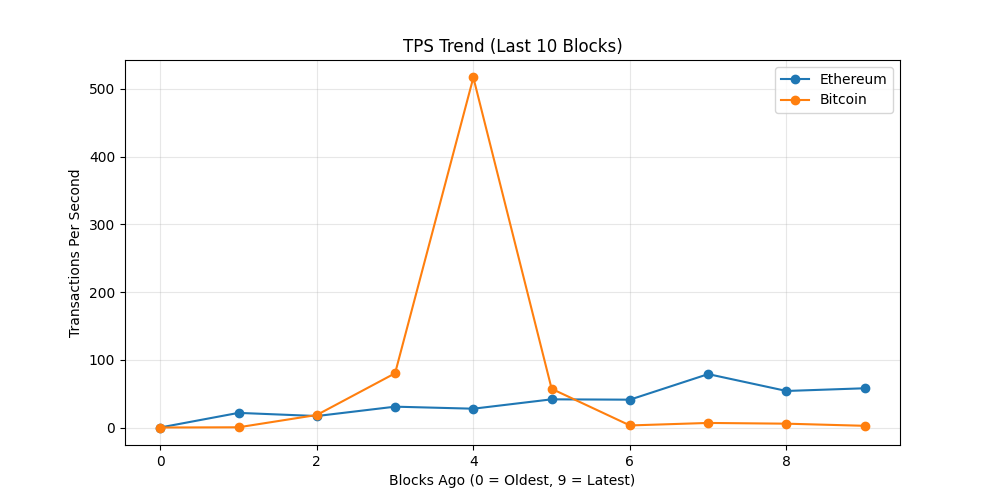
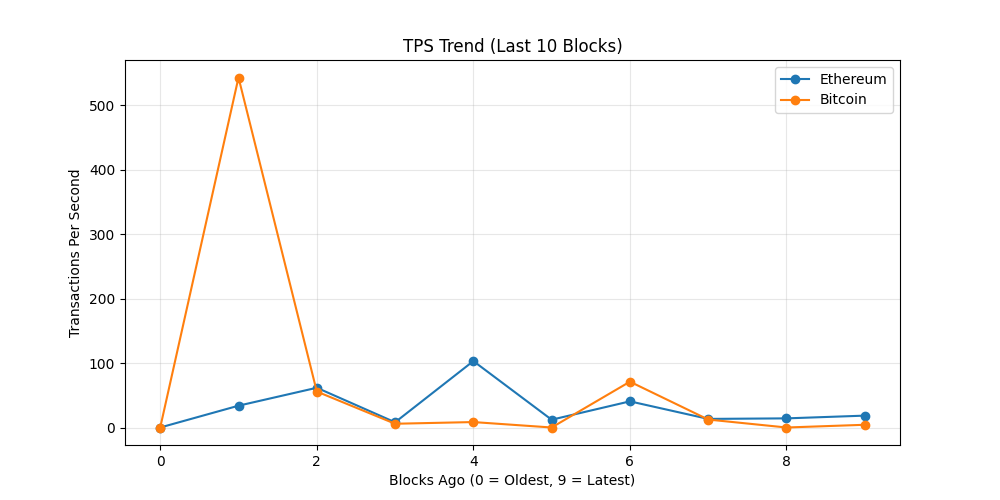
chore: update on-chain dashboard

diff --git a/README.md b/README.md
@@ -19,7 +19,7 @@ The README itself acts as the dashboard and is regenerated automatically on a 6 
 demonstrating a production-style, infrastructure-focused observability workflow rather
 than a traditional UI-driven approach.
 
-_Last updated: 2026-08-07 03:16 UTC_
+_Last updated: 2026-08-07 07:39 UTC_
 
 ## API Usage (GetBlock.io)
 - Calls used: **24**
@@ -27,8 +27,8 @@ _Last updated: 2026-08-07 03:16 UTC_
 ## Network Metrics
 | Chain | Block Height | TX Count | TPS (10 blk avg) | Block Util | Avg Fee |
 |------|-------------|----------|------------------|------------|---------|
-| Ethereum | 25700337 | 695 | 57.92 | 58.14% | 0.1 Gwei |
-| Bitcoin | 961366 | 3099 | 2.5 | 79.56% | N/A |
+| Ethereum | 25701648 | 221 | 18.42 | 50.62% | 0.1 Gwei |
+| Bitcoin | 961393 | 5168 | 4.22 | 99.88% | N/A |
 
 ## Visuals
 ### Transactions Trend
@@ -43,11 +43,11 @@ _Last updated: 2026-08-07 03:16 UTC_
 ## Whale Alerts (latest block)
 - Transaction hashes are truncated for readability.
 - Full hashes are available in `dashboards/metrics.json`
-- Bitcoin | 415.33 BTC | `0dbaa54bd8c6…`
-- Bitcoin | 203.54 BTC | `fa52f6ac29d3…`
-- Bitcoin | 123.65 BTC | `70fef7dfcc00…`
-- Bitcoin | 570.24 BTC | `f3a02ba3f2c7…`
-- Bitcoin | 185.44 BTC | `ea55b0db4cf2…`
+- Bitcoin | 138.42 BTC | `5af7cbbb5e4a…`
+- Bitcoin | 118.8 BTC | `9572778d0bb4…`
+- Bitcoin | 108.97 BTC | `37fe650f0a03…`
+- Bitcoin | 108.64 BTC | `7a73778aaf36…`
+- Bitcoin | 108.64 BTC | `0fe858d59256…`
 
 ## Run locally
 
